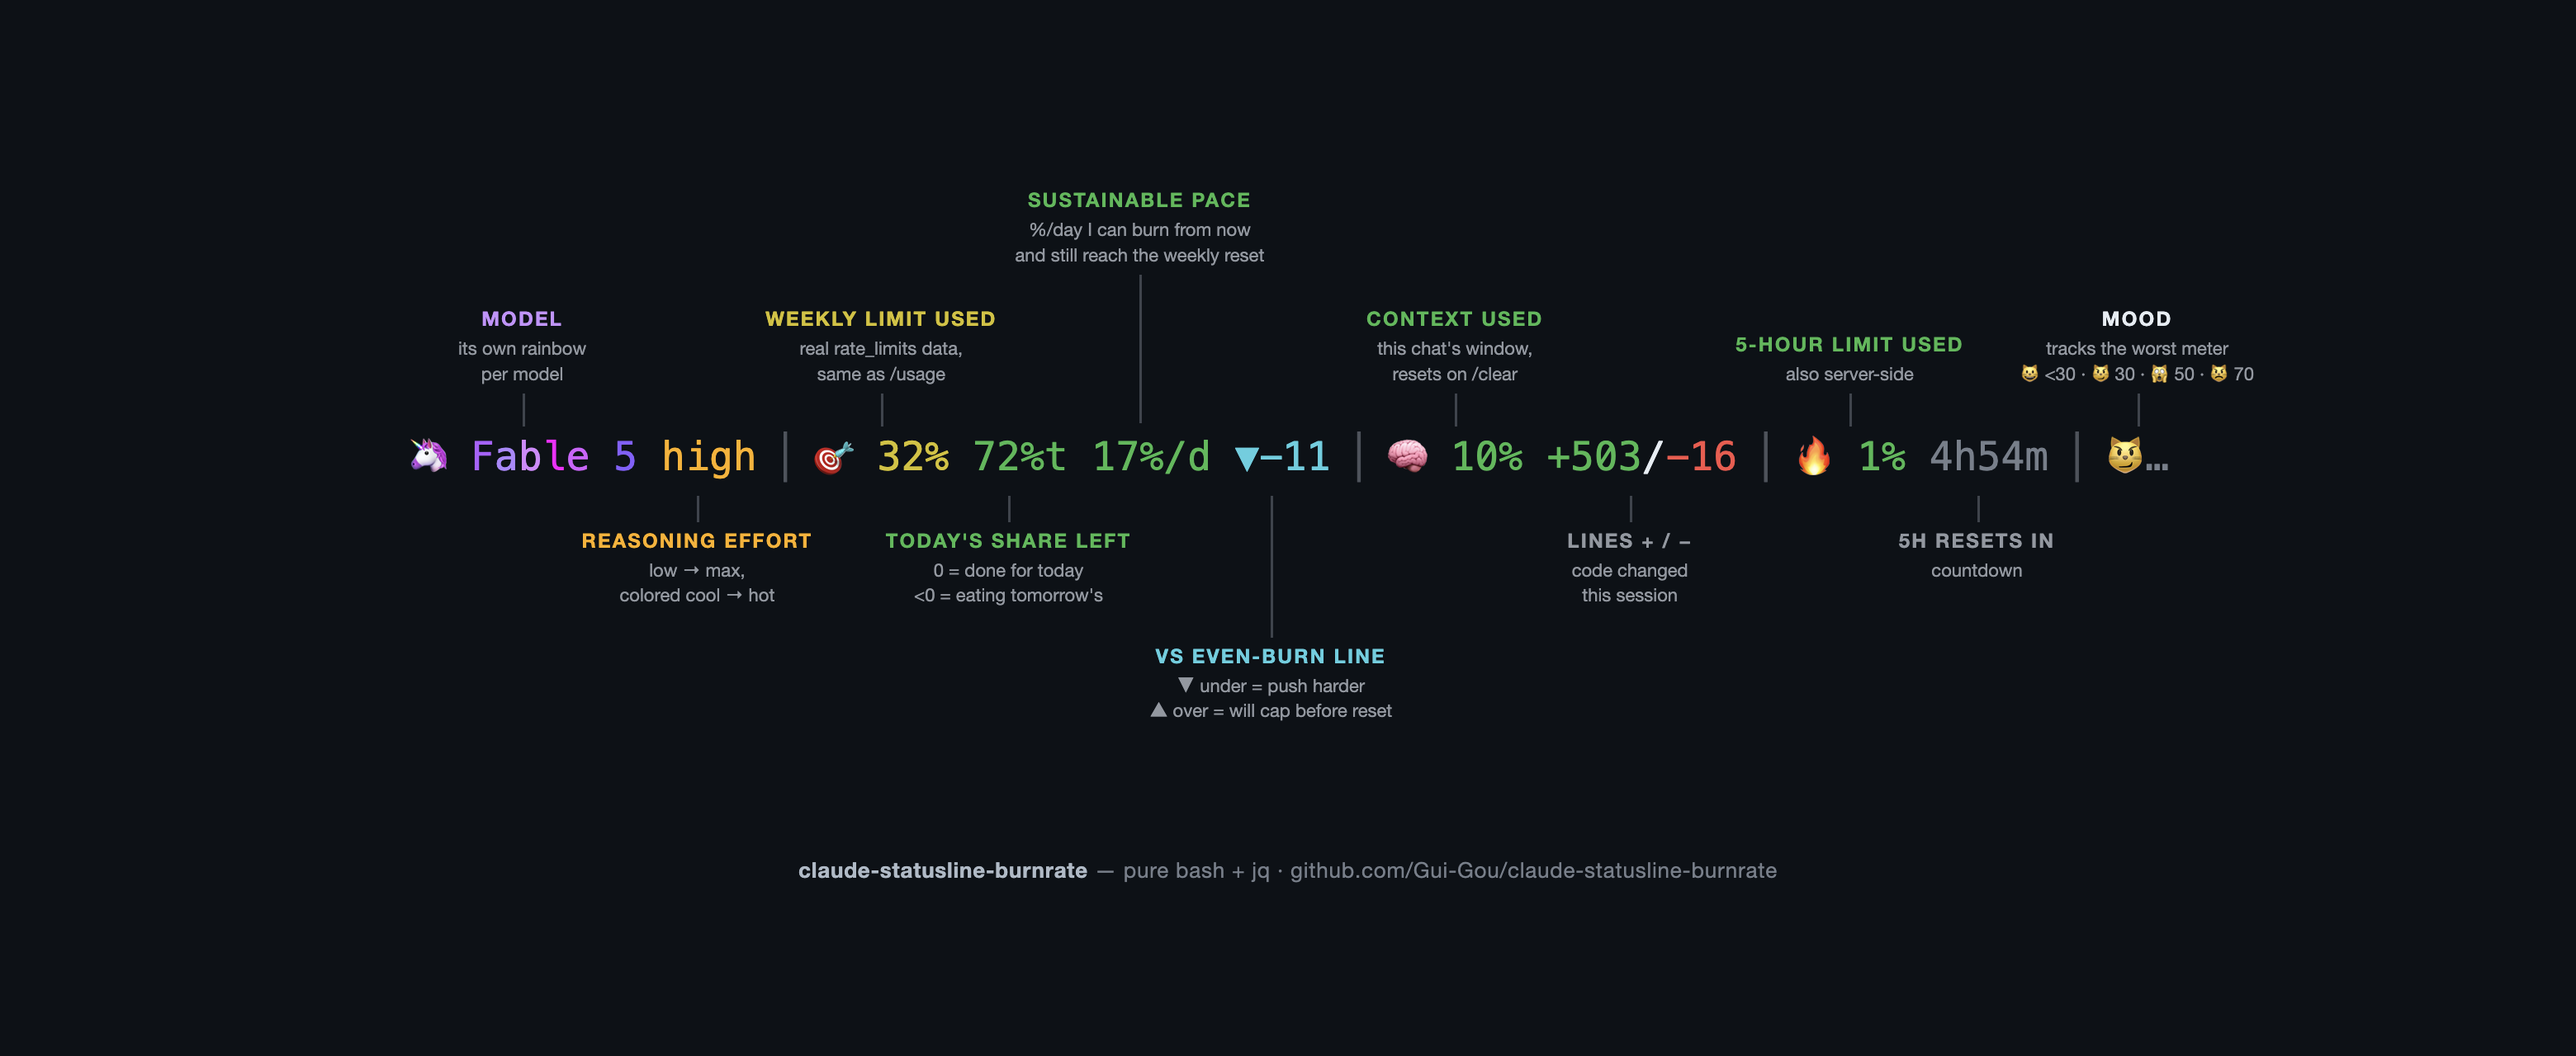
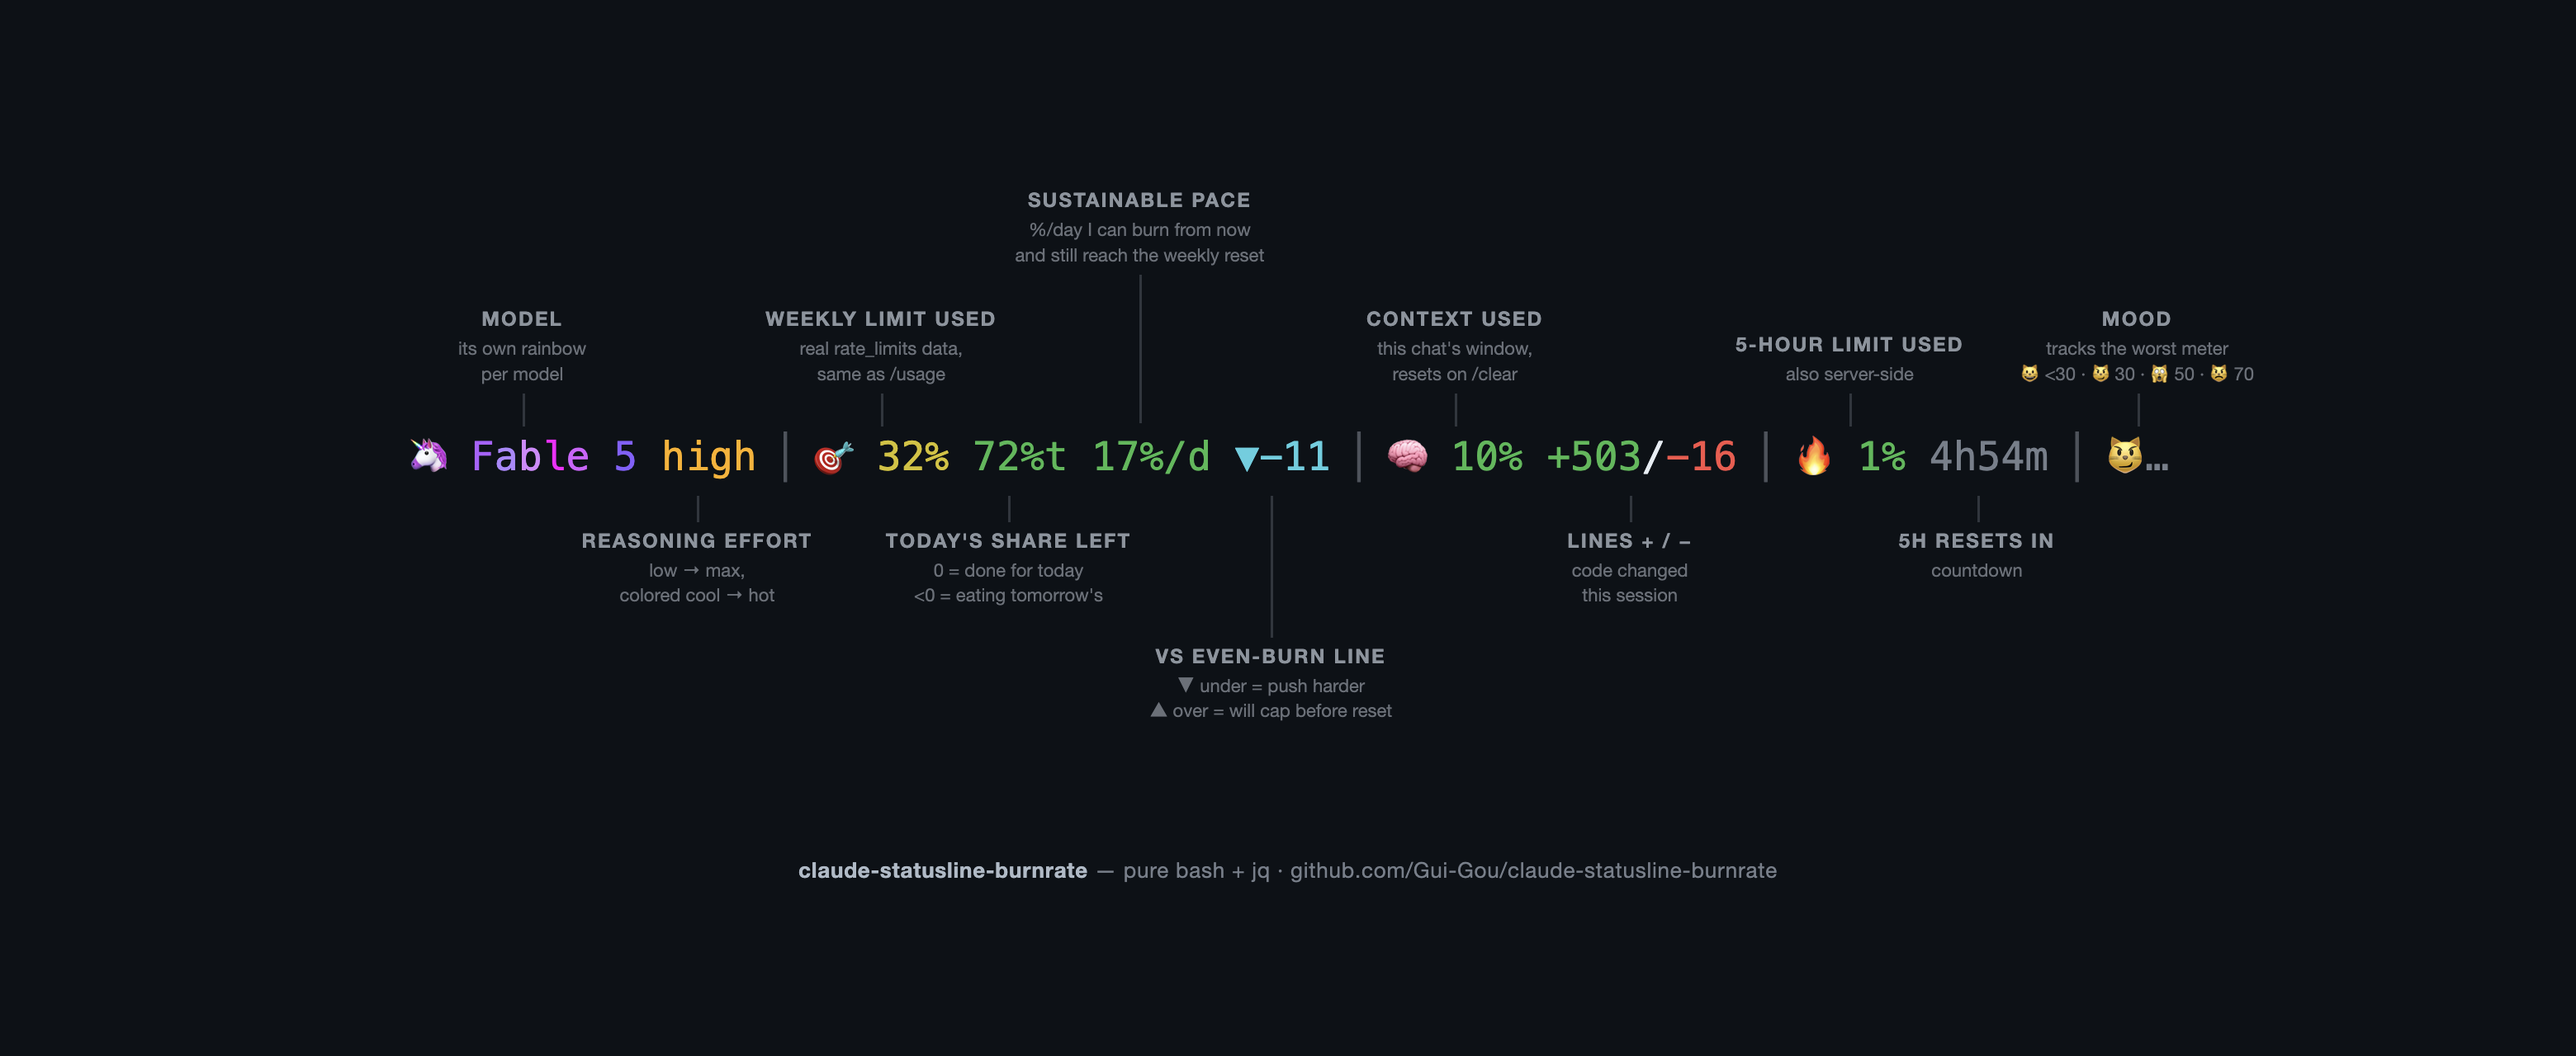
Grey infographic annotations; /usage-replacement angle; star line

diff --git a/README.md b/README.md
@@ -2,9 +2,9 @@
 
 # 🎯 claude-statusline-burnrate
 
-**A Claude Code status line that does the weekly-limit math for you.**
+**Stop opening `/usage`. It's all right there, on every render.**
 
-Real server-side usage · today's share of the week · the burn rate you can sustain · sleep-aware pacing
+A status line that does the weekly-limit math for you: real server-side usage · today's share of the week · the burn rate you can sustain · sleep-aware pacing
 
 ![bash](https://img.shields.io/badge/bash-3.2%2B-4EAA25?logo=gnubash&logoColor=white)
 ![deps](https://img.shields.io/badge/deps-just%20jq-blue)
@@ -15,7 +15,9 @@ Real server-side usage · today's share of the week · the burn rate you can sus
 
 </div>
 
-No estimates, no background daemons, no node. Claude Code v2.1+ pipes the real `rate_limits` numbers into every status line render — the same ones `/usage` shows — and this script turns them into the answer you actually want: **am I ok, and how hard can I push?**
+You know the ritual: pause work, open `/usage`, squint at the weekly bar, guess whether you'll make it to the reset. This replaces it. Claude Code v2.1+ pipes the real `rate_limits` numbers into every status line render — the same ones `/usage` shows — and this script keeps them at the bottom of your terminal, turned into the answer you actually want: **am I ok, and how hard can I push?** No estimates, no background daemons, no node.
+
+If it saves you a rate-limit surprise, a ⭐ helps other people find it.
 
 ## 🧭 Anatomy
 
